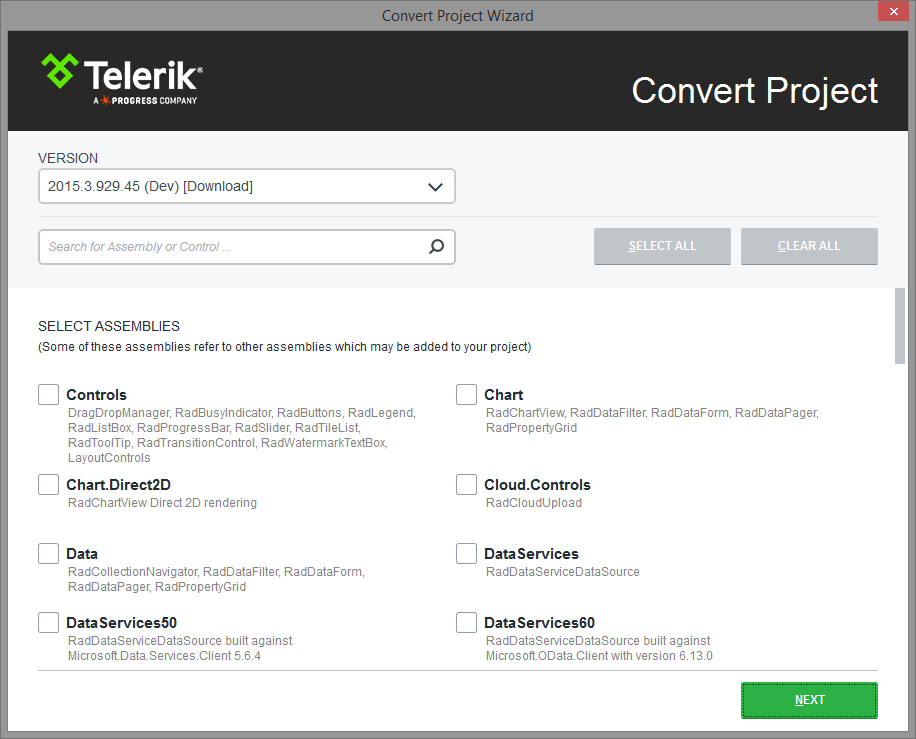
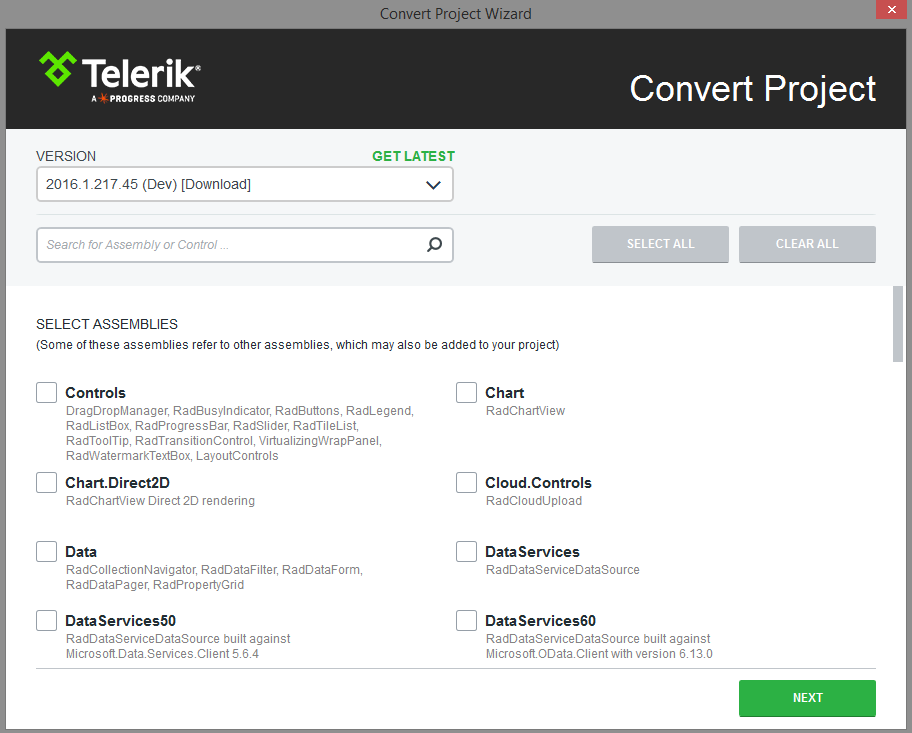
Updated convert project article.

diff --git a/visual-studio-extensions/for-wpf-vs-extensions-project-convert.md b/visual-studio-extensions/for-wpf-vs-extensions-project-convert.md
@@ -1,40 +1,29 @@
 ---
-title: Project creation and configuration
-page_title: Project creation and configuration
-description: Project creation and configuration
-slug: radcontrols-for-wpf-vs-extensions-project-configuration
-tags: project,creation,and,configuration
+title: Convert Project
+page_title: Convert Project
+description: Convert Project
+slug: radcontrols-for-wpf-vs-extensions-project-convert
+tags: project,configuration
 published: True
 position: 3
 site_name: WPF
 ---
 
-# Project creation and configuration
-
-With the new Visual Studio Extensions for WPF you can quickly create an application pre-configured to use Telerik UI for WPF. The fastest way to have such a project is using the Visual Studio __New Project Wizard__. Under the __Telerik__ node there is a new node – __Windows__, where four project templates exist: 
-
-![VSExtentions WPF Overview Project Templates](images/VSExtentions_WPF_OverviewProjectTemplates.jpg)
-
-For convenience the same project templates could be found under the __Visual C# -> Windows__ and __Visual Basic -> Windows__ nodes. 
-
-After you click the __OK__ button, you get the Project Configuration Wizard, provided by the Telerik UI for WPF Visual Studio Extensions. The wizard detects all the installed __Use Implicit Styles__ distributions of UI for WPF and lists them in a combobox. You can select a distribution which you want to be applied to your project. You can select what type of project to be created from the Choose project type combobox: Standard, Word-Inspired, Excel-Inspired or Outlook-Inspired. You can access the Project Configuration Wizard through the Telerik menu when you need to configure your Telerik WPF application or you need to convert an existing WPF application to a Telerik WPF application. These depend on the active project in the Visual Studio Solution Explorer:
-
-
-__Configure Telerik WPF Application__
-
-![VSExtentions WPF Overview Menu Configure](images/VSExtentions_WPF_OverviewMenuConfigure.png)
+# Convert Project
 
 __Convert to Telerik WPF Application__
 
+Telerik Visual Studio extensions Convert Project Wizard could be accessed through the Telerik menu when you need to convert an existing WPF application to a Telerik WPF application:
+
 ![VSExtentions WPF Overview Menu Convert](images/VSExtentions_WPF_OverviewMenuConvert.png)
 
-Both menus have their context menu counterparts accessed by right clicking on the project you want to convert or configure. 
+The wizard could be also reached through the context menu counterparts accessed by right clicking on the project you want to convert. 
 
-The Project Configuration Wizard lets you tune your project's use of UI for WPF.
+The Convert Project Wizard lets you tune your project's use of UI for WPF.
 
 ![Project Configuration Wizard](images/VSExtensions_WPF_ProjectConfigWizard.png)
 
-The Project Configuration Wizard’s first page lets you:
+The wizard’s first page lets you:
         
 
 * Select a Telerik UI version from the list of versions detected on your system
@@ -43,15 +32,18 @@ The Project Configuration Wizard’s first page lets you:
 
 * Specify which assemblies your project would use. When selecting a UI for WPF assembly all dependent controls are selected automatically and vice-versa.
 
->The Project Configuration Wizard’s second page is only available if you use theming based on implicit styles. ([more information]({%slug styling-apperance-implicit-styles-overview%}))
-          
+>GET LATEST button is available only when there is a newer version released on our web site.
 
-![VSExtensions WPF Project Config Wizard Step 2](images/VSExtensions_WPF_ProjectConfigWizard_Step2.PNG)
+>If you prefer the Telerik assemblies to be copied into your solution folder, the **Copy referenced assemblies to solution and source control** option could be selected *only* into the [Visual Studio Extensions Options]({%slug radcontrols-vs-extensions-options%}).
+  
+>The Convert Project Wizard’s second page is only available if you use theming based on implicit styles. ([more information]({%slug styling-apperance-implicit-styles-overview%}))        
 
-Through the Project Configuration Wizard’s third page you can:
-        
 
-* Select the way you want themes to be applied in your project via referencing theme assembly
+Through the Convert Project Wizard’s second page you can:
+
+![VSExtensions WPF Project Config Wizard Step 2](images/VSExtensions_WPF_ProjectConvert_Themes.png)      
+
+* Select which theme will be applied to your project. Check the content of each theme or see the preview of it when select it into the Convert Project:
             
 
 When you click the Finish button:
@@ -62,6 +54,7 @@ When you click the Finish button:
 
 * A default application-wide theme gets set if you use theming based on implicit styles.
           
+
 
 # See Also
 
